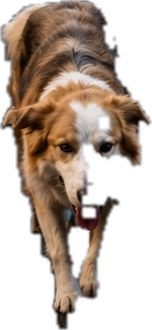
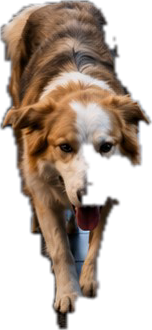
Nach der Pruefung: Loch im Hund zu, Flaeche haelt jede Breite
Ein zweiter Agent hat die Seite gegengelesen. Sieben Befunde, alle behoben.

Der schwerste: ein Loch mitten in der Stirn des Hundes. Der Nachputz, der
kalte dunkle Reste entfernt, hatte auch dunkle Stellen INNERHALB der
Silhouette getroffen — 655 Bildpunkte, darunter ein Rechteck genau zwischen
den Augen, durch das die Tanzflaeche leuchtete. Das Werkzeug fuellt jetzt
alles, was vom Bildrand aus nicht erreichbar ist, meldet Randberuehrung und
bricht ehrlich ab, statt bei fehlender Flaeche den ganzen Hintergrund zum
Hund zu erklaeren (marke === beste war -1 === -1).

Die Tanzflaeche war Bruchteile der Fensterbreite bei fester Kameradistanz:
auf 1440 Pixeln waren von 432 Kacheln sechzig sichtbar, der Rest lief
unsichtbar mit, und die Flaeche zerfiel in vier Farbschollen. Jetzt ein
Muster mit fester Kachelgroesse — zwei Elemente statt 432, gleich auf jedem
Bildschirm. Markup: 64 Elemente statt 495.

Weiter: die Discokugel lag genau auf der Beschriftung darunter (die Kugel
haengt jetzt aus der Mitte, die erfundene Beschriftung ist ganz raus); die
Sonne schien durch die Kacheln und endete in einer geraden Kante (der Boden
ist deckend, die Spiegelung absichtlich gesetzt); der Hund schwebte (Bodenschatten,
ruhigerer Gang); sein Randlicht las sich als Farbversatz (enger gehalten);
das Leuchtwort war auf dem Handy 23 Pixel klein (jetzt 30); der Fokusring
war cyan auf cyan (jetzt weiss); alt-Text verwies auf ein Bild, das fuer
[…]

Changed region(s): [[0.4211, 0.6061, 0.6579, 0.8485], [0.6316, 0.3333, 0.7368, 0.3939]]

diff --git a/index.html b/index.html
@@ -287,39 +287,17 @@ body{
     animation:blinzeln 7s ease-in-out infinite alternate;
 }
 
-/* Lichtkegel von oben. Ein Kegelverlauf, der langsam schwenkt — mehr
-   braucht es nicht, damit ein Raum nach Scheinwerfern aussieht. */
-.strahlen{
-    position:absolute;
-    left:50%; top:-4%;
-    width:min(150vw,1500px);
-    height:74%;
-    transform:translateX(-50%);
-    transform-origin:50% 0;
-    pointer-events:none;
-    opacity:.62;
-    filter:blur(14px);
-    background:conic-gradient(from 208deg at 50% 0%,
-        transparent 0 7deg,
-        rgba(255,46,139,.30) 7deg 11deg,
-        transparent 11deg 17deg,
-        rgba(34,228,255,.26) 17deg 21deg,
-        transparent 21deg 29deg,
-        rgba(255,194,74,.22) 29deg 32deg,
-        transparent 32deg 39deg,
-        rgba(168,92,255,.26) 39deg 43deg,
-        transparent 43deg 120deg);
-    animation:schwenken 11s ease-in-out infinite alternate;
-}
-
 /* Die Discokugel. Facetten aus einem sich drehenden Kegelverlauf,
    Rundung aus einem Radialverlauf, Aufhaengung aus einer Linie. */
 .kugel{
     position:absolute;
     /* Haengt unter der Menueleiste, nicht dahinter — sonst ist die Kugel
-       genau dort angeschnitten, wo man auf dem Abschnitt landet. */
-    top:44px; left:50%;
-    width:clamp(46px,7.5vw,78px);
+       genau dort angeschnitten, wo man auf dem Abschnitt landet. Und sie
+       haengt AUS DER MITTE: vorher standen Kugel, Schild, Sonne, Hund und
+       Fluchtpunkt alle auf derselben Achse, und die Kugel lag mitten auf
+       der Schrift darunter. */
+    top:44px; left:24%;
+    width:clamp(52px,8vw,86px);
     transform:translateX(-50%);
     pointer-events:none;
 }
@@ -339,7 +317,7 @@ body{
         repeating-conic-gradient(from 0deg, rgba(255,255,255,.26) 0 5deg, rgba(120,160,220,.06) 5deg 10deg),
         repeating-linear-gradient(0deg, rgba(0,0,0,.34) 0 4px, transparent 4px 9px),
         radial-gradient(circle at 32% 26%, #F2FAFF 0%, #93A8D8 34%, #3A4270 66%, #12162E 100%);
-    box-shadow:0 0 30px rgba(180,220,255,.4), 0 0 90px rgba(168,92,255,.3);
+    box-shadow:0 0 34px rgba(190,225,255,.5), 0 0 110px rgba(168,92,255,.42), 0 0 200px rgba(34,228,255,.2);
     animation:drehen 14s linear infinite;
 }
 
@@ -367,11 +345,18 @@ body{
 }
 
 /* ---------- Die Tanzflaeche ----------
-   Eine echte perspektivische Ebene: das Kachelraster liegt flach und wird
-   gekippt. Deshalb laufen die Fugen richtig auf den Fluchtpunkt zu und die
-   Kacheln werden nach hinten kleiner. Jede Kachel pulst fuer sich; die
-   Verteilung kommt aus elf Gruppen, die sich mit den zwoelf Spalten nicht
-   decken — sonst stuenden die Farben in Streifen statt im Muster. */
+   Eine echte perspektivische Ebene: das Muster liegt flach und wird gekippt.
+
+   Es sind KEINE Elemente mehr, sondern zwei Hintergrundebenen. Vorher lagen
+   hier 432 einzelne Kacheln — bei 1440 Pixeln Fensterbreite waren davon
+   sechzig sichtbar, der Rest lief unsichtbar mit. Schlimmer: die Kacheln
+   waren Bruchteile der Fensterbreite, die Kameradistanz aber fest. Auf einem
+   breiten Bildschirm wurden daraus vier Farbschollen statt einer Flaeche.
+
+   Als Muster ist die Kachel 76 Pixel gross — auf jedem Bildschirm gleich,
+   und sie wiederholt sich von allein so weit, wie die Ebene reicht. Zwei
+   Ebenen mit verschobener Farbfolge blenden gegeneinander: so wechselt die
+   Flaeche die Farbe, wie sie das gehoert. */
 .flaeche{
     position:absolute;
     left:0; right:0;
@@ -381,39 +366,50 @@ body{
     pointer-events:none;
     perspective:340px;
     perspective-origin:50% 0%;
+    background:#0A0518;
     -webkit-mask-image:linear-gradient(to bottom, transparent 0, #000 15%);
     mask-image:linear-gradient(to bottom, transparent 0, #000 15%);
+}
+/* Das Licht der Sonne, das auf dem Boden liegt. Absichtlich gesetzt: vorher
+   schien die Sonne durch die halbdurchsichtigen Kacheln durch und endete in
+   einer geraden Kante — das sah nach Fehler aus, nicht nach Spiegelung. */
+.flaeche::after{
+    content:"";
+    position:absolute;
+    inset:0;
+    background:linear-gradient(to bottom, rgba(255,90,170,.26) 0%, rgba(255,90,170,.07) 24%, transparent 52%);
 }
 .kacheln{
     position:absolute;
     left:-32%; right:-32%;
     top:0;
+    height:340%;
     transform-origin:50% 0%;
     transform:rotateX(72deg);
-    display:grid;
-    grid-template-columns:repeat(24,1fr);
-    gap:2px;
 }
-/* aspect-ratio statt fester Zeilenhoehe: so bleiben die Kacheln quadratisch,
-   egal wie breit das Fenster ist. Mit fester Hoehe wurden daraus auf dem
-   Bildschirm Farbfelder statt einer Flaeche. */
-.kacheln i{
-    aspect-ratio:1;
-    background:var(--k);
-    opacity:.16;
-    animation:leuchten 2.6s ease-in-out infinite;
+.kacheln span{
+    position:absolute;
+    inset:0;
+    background-image:
+        repeating-linear-gradient(90deg, rgba(0,0,0,.66) 0 3px, transparent 3px 76px),
+        repeating-linear-gradient(0deg,  rgba(0,0,0,.66) 0 3px, transparent 3px 76px),
+        conic-gradient(from 0deg at 50% 50%,
+            var(--magenta) 0 25%, var(--cyan) 25% 50%,
+            var(--gold) 50% 75%, var(--flieder) 75% 100%);
+    background-size:76px 76px, 76px 76px, 152px 152px;
+    opacity:.92;
 }
-.kacheln i:nth-child(11n)   { --k:var(--magenta); animation-delay:0s;    }
-.kacheln i:nth-child(11n+1) { --k:var(--cyan);    animation-delay:-.9s;  }
-.kacheln i:nth-child(11n+2) { --k:var(--gold);    animation-delay:-1.7s; }
-.kacheln i:nth-child(11n+3) { --k:var(--flieder); animation-delay:-.4s;  }
-.kacheln i:nth-child(11n+4) { --k:var(--magenta); animation-delay:-2.2s; }
-.kacheln i:nth-child(11n+5) { --k:var(--cyan);    animation-delay:-1.3s; }
-.kacheln i:nth-child(11n+6) { --k:var(--gruen);   animation-delay:-.6s;  }
-.kacheln i:nth-child(11n+7) { --k:var(--gold);    animation-delay:-2s;   }
-.kacheln i:nth-child(11n+8) { --k:var(--flieder); animation-delay:-1.1s; }
-.kacheln i:nth-child(11n+9) { --k:var(--magenta); animation-delay:-.2s;  }
-.kacheln i:nth-child(11n+10){ --k:var(--cyan);    animation-delay:-2.5s; }
+.kacheln .b{
+    background-image:
+        repeating-linear-gradient(90deg, rgba(0,0,0,.66) 0 3px, transparent 3px 76px),
+        repeating-linear-gradient(0deg,  rgba(0,0,0,.66) 0 3px, transparent 3px 76px),
+        conic-gradient(from 0deg at 50% 50%,
+            var(--cyan) 0 25%, var(--gruen) 25% 50%,
+            var(--flieder) 50% 75%, var(--gold) 75% 100%);
+    background-position:0 0, 0 0, 76px 76px;
+    opacity:0;
+    animation:wechsel 4.4s ease-in-out infinite;
+}
 
 /* ---------- Der Hund ----------
    Freigestellt aus demselben Foto, das oben im Hero steht — er laeuft also
@@ -429,22 +425,37 @@ body{
     height:min(38svh,296px);
     width:auto;
     transform:translateX(-50%);
-    -webkit-mask-image:linear-gradient(to top, transparent 0, #000 20%);
-    mask-image:linear-gradient(to top, transparent 0, #000 20%);
+    -webkit-mask-image:linear-gradient(to top, transparent 0, #000 12%);
+    mask-image:linear-gradient(to top, transparent 0, #000 12%);
     /* Eng gehaltene Schlagschatten: so lesen sie als Randlicht von links
        und rechts. Weit und weich ueberlagern sie sich hinter dem Hund zu
        einem hellen Kasten — das sah aus wie ein Ausschnittfehler. */
+    /* Eng gehalten, sonst liest es sich als Farbversatz wie bei einem
+       schlecht registrierten Druck statt als Randlicht. */
     filter:
-        saturate(1.22) contrast(1.08)
-        drop-shadow(-5px 0 3px rgba(255,46,139,.8))
-        drop-shadow(5px 0 3px rgba(34,228,255,.8))
-        drop-shadow(0 12px 18px rgba(0,0,0,.55));
+        saturate(1.18) contrast(1.06)
+        drop-shadow(0 10px 14px rgba(0,0,0,.62))
+        drop-shadow(-3px 0 2px rgba(255,46,139,.6))
+        drop-shadow(3px 0 2px rgba(34,228,255,.6));
     animation:tappen 3.6s ease-in-out infinite;
 }
 /* Der Lichtnebel an den Pfoten. Er hat eine Aufgabe: der Hund laeuft unten
    weich aus, weil die Freistellung an den Laeufen ausfranst — dieser Schein
    macht daraus Licht statt eines Schnitts. Deshalb sitzt er genau auf
    Pfotenhoehe und nicht am unteren Rand. */
+.hundschatten{
+    position:absolute;
+    left:50%;
+    bottom:5.5%;
+    z-index:4;
+    width:min(28vw,196px);
+    height:min(4.4vh,30px);
+    transform:translateX(-50%);
+    pointer-events:none;
+    border-radius:50%;
+    background:radial-gradient(ellipse at center, rgba(0,0,0,.72), rgba(0,0,0,.3) 52%, transparent 74%);
+    filter:blur(7px);
+}
 .hundlicht{
     position:absolute;
     left:50%;
@@ -456,8 +467,8 @@ body{
     pointer-events:none;
     border-radius:50%;
     background:radial-gradient(ellipse at center,
-        rgba(255,255,255,.78) 0%, rgba(180,240,255,.55) 22%,
-        rgba(34,228,255,.34) 44%, rgba(255,46,139,.20) 66%, transparent 78%);
+        rgba(255,255,255,.55) 0%, rgba(180,240,255,.42) 24%,
+        rgba(34,228,255,.30) 46%, rgba(255,46,139,.18) 66%, transparent 78%);
     filter:blur(16px);
     animation:atmen 3.6s ease-in-out infinite;
 }
@@ -475,15 +486,6 @@ body{
     align-items:center;
     gap:clamp(14px,2.6vh,24px);
     text-align:center;
-}
-
-.augenbraue{
-    font-size:10px;
-    font-weight:600;
-    letter-spacing:.34em;
-    text-transform:uppercase;
-    color:var(--gold);
-    text-shadow:0 0 16px rgba(255,194,74,.85);
 }
 
 /* Das Leuchtschild. Der einzige Weg, den diese Seite anbietet — also
@@ -509,12 +511,12 @@ body{
     box-shadow:0 0 38px rgba(34,228,255,.55), inset 0 0 28px rgba(34,228,255,.24);
     transform:translateY(-2px);
 }
-.schild:focus-visible{ outline:2px solid var(--cyan); outline-offset:5px; }
+.schild:focus-visible{ outline:2px solid #fff; outline-offset:5px; }
 
 .schild-wort{
     display:block;
     font-family:var(--anzeige);
-    font-size:clamp(23px,5.8vw,54px);
+    font-size:clamp(30px,6.6vw,54px);
     line-height:1.06;
     letter-spacing:.045em;
     text-transform:uppercase;
@@ -531,9 +533,11 @@ body{
 }
 .schild-zeile{
     display:block;
-    margin-top:12px;
+    max-width:42ch;
+    margin:12px auto 0;
     font-size:13px;
     letter-spacing:.06em;
+    text-wrap:balance;
     color:var(--leise);
 }
 
@@ -599,10 +603,10 @@ body{
 }
 
 /* ---------- Bewegung ---------- */
-@keyframes leuchten{ 0%,100%{ opacity:.12; } 50%{ opacity:.92; } }
+@keyframes wechsel{ 0%,44%{ opacity:0; } 50%,94%{ opacity:1; } 100%{ opacity:0; } }
 @keyframes drehen{   from{ transform:rotate(0deg); } to{ transform:rotate(360deg); } }
 @keyframes schwenken{ from{ transform:translateX(-50%) rotate(-7deg); } to{ transform:translateX(-50%) rotate(7deg); } }
-@keyframes tappen{ 0%,100%{ transform:translateX(-50%) translateY(0) rotate(0deg); } 50%{ transform:translateX(-50%) translateY(-9px) rotate(-1.1deg); } }
+@keyframes tappen{ 0%,100%{ transform:translateX(-50%) translateY(0); } 50%{ transform:translateX(-50%) translateY(-5px); } }
 @keyframes atmen{  0%,100%{ opacity:.75; transform:translateX(-50%) scale(1); } 50%{ opacity:1; transform:translateX(-50%) scale(1.06); } }
 @keyframes blinzeln{
     from{ opacity:.55; }
@@ -628,9 +632,9 @@ body{
 /* Wer Bewegung abgestellt hat, bekommt dasselbe Bild im Stand: die Röhre
    brennt, das Gitter steht, die Sterne stehen. */
 @media (prefers-reduced-motion:reduce){
-    .kacheln i, .sterne, .kugel::after, .strahlen,
+    .kacheln .b, .sterne, .kugel::after,
     .hund, .hundlicht, .schild-wort, .hinweis svg{ animation:none !important; }
-    .kacheln i{ opacity:.5; }
+    .kacheln .b{ opacity:.4; }
     .schild{ transition:none; }
 }
 
@@ -663,7 +667,6 @@ body{
 <section class="club" id="weiter">
 
   <div class="sterne" aria-hidden="true"></div>
-  <div class="strahlen" aria-hidden="true"></div>
   <div class="kugel" aria-hidden="true"></div>
 
   <svg class="sonne" viewBox="0 0 200 200" aria-hidden="true" focusable="false" xmlns="http://www.w3.org/2000/svg">
@@ -690,20 +693,21 @@ body{
 
   <div class="horizont" aria-hidden="true"></div>
 
-  <!-- Die Tanzflaeche. 432 Kacheln, jede pulst fuer sich. -->
+  <!-- Die Tanzflaeche. Zwei Musterebenen, die gegeneinander blenden. -->
   <div class="flaeche" aria-hidden="true">
-    <div class="kacheln"><i></i><i></i><i></i><i></i><i></i><i></i><i></i><i></i><i></i><i></i><i></i><i></i><i></i><i></i><i></i><i></i><i></i><i></i><i></i><i></i><i></i><i></i><i></i><i></i><i></i><i></i><i></i><i></i><i></i><i></i><i></i><i></i><i></i><i></i><i></i><i></i><i></i><i></i><i></i><i></i><i></i><i></i><i></i><i></i><i></i><i></i><i></i><i></i><i></i><i></i><i></i><i></i><i></i><i></i><i></i><i></i><i></i><i></i><i></i><i></i><i></i><i></i><i></i><i></i><i></i><i></i><i></i><i></i><i></i><i></i><i></i><i></i><i></i><i></i><i></i><i></i><i></i><i></i><i></i><i></i><i></i><i></i><i></i><i></i><i></i><i></i><i></i><i></i><i></i><i></i><i></i><i></i><i></i><i></i><i></i><i></i><i></i><i></i><i></i><i></i><i></i><i></i><i></i><i></i><i></i><i></i><i></i><i></i><i></i><i></i><i></i><i></i><i></i><i></i><i></i><i></i><i></i><i></i><i></i><i></i><i></i><i></i><i></i><i></i><i></i><i></i><i></i><i></i><i></i><i></i><i></i><i></i><i></i><i></i><i></i><i></i><i></i><i></i><i></i><i></i><i></i><i></i><i></i><i></i><i></i><i></i><i></i><i></i><i></i><i></i><i></i><i></i><i></i><i></i><i></i><i></i><i></i><i></i><i></i><i></i><i></i><i></i><i></i><i></i><i></i><i></i><i></i><i></i><i></i><i></i><i></i><i></i><i></i><i></i><i></i><i></i><i></i><i></i><i></i><i></i><i></i><i></i><i></i><i></i><i></i><i></i><i></i><i></i><i></i><i></i><i></i><i></i><i></i><i></i><i></i><i></i><i></i><i></i><i></i><i></i><i></i><i></i><i></i><i></i><i></i><i></i><i></i><i></i><i></i><i></i><i></i><i></i><i></i><i></i><i></i><i></i><i></i><i></i><i></i><i></i><i></i><i></i><i></i><i></i><i></i><i></i><i></i><i></i><i></i><i></i><i></i><i></i><i></i><i></i><i></i><i></i><i></i><i></i><i></i><i></i><i></i><i></i><i></i><i></i><i></i><i></i><i></i><i></i><i></i><i></i><i></i><i></i><i></i><i></i><i></i><i></i><i></i><i></i><i></i><i></i><i></i><i></i><i></i><i></i><i></i><i></i><i></i><i></i><i></i><i></i><i></i><i></i><i></i><i></i><i></i><i></i><i></i><i></i><i></i><i></i><i></i><i></i><i></i><i></i><i></i><i></i><i></i><i></i><i></i><i></i><i></i><i></i><i></i><i></i><i></i><i></i><i></i><i></i><i></i><i></i><i></i><i></i><i></i><i></i><i></i><i></i><i></i><i></i><i></i><i></i><i></i><i></i><i></i><i></i><i></i><i></i><i></i><i></i><i></i><i></i><i></i><i></i><i></i><i></i><i></i><i></i><i></i><i></i><i></i><i></i><i></i><i></i><i></i><i></i><i></i><i></i><i></i><i></i><i></i><i></i><i></i><i></i><i></i><i></i><i></i><i></i><i></i><i></i><i></i><i></i><i></i><i></i><i></i><i></i><i></i><i></i><i></i><i></i><i></i><i></i><i></i><i></i><i></i><i></i><i></i><i></i><i></i><i></i><i></i><i></i><i></i><i></i><i></i><i></i><i></i><i></i><i></i><i></i><i></i><i></i><i></i><i></i><i></i><i></i><i></i><i></i><i></i><i></i><i></i><i></i><i></i><i></i><i></i><i></i><i></i><i></i><i></i><i></i><i></i><i></i><i></i><i></i><i></i><i></i><i></i><i></i><i></i><i></i><i></i><i></i><i></i><i></i><i></i><i></i><i></i><i></i><i></i><i></i><i></i><i></i><i></i><i></i><i></i><i></i><i></i><i></i><i></i><i></i><i></i><i></i><i></i><i></i></div>
+    <div class="kacheln"><span class="a"></span><span class="b"></span></div>
   </div>
 
   <div class="hundlicht" aria-hidden="true"></div>
-  <img class="hund" src="bilder/hund.png" width="152" height="330" decoding="async"
-       alt="Derselbe Hund wie im Bild oben, freigestellt und auf einer beleuchteten Tanzfläche.">
+  <div class="hundschatten" aria-hidden="true"></div>
+  <!-- Schmueckend: das Bild darueber ist ein CSS-Hintergrund und hat gar
+       keine Textalternative, ein Verweis darauf ginge also ins Leere. -->
+  <img class="hund" src="bilder/hund.png" width="152" height="330" decoding="async" alt="">
 
   <div class="club-inhalt">
-    <p class="augenbraue">Auf dieser Seite</p>
     <a class="schild" href="/rauchfrei.html" data-rauchfrei>
       <span class="schild-wort">Rauchfrei</span>
-      <span class="schild-zeile">Der Zähler seit dem ersten Tag. Mit Anmeldung.</span>
+      <span class="schild-zeile">Der Zähler seit dem ersten&nbsp;Tag. Mit&nbsp;Anmeldung.</span>
     </a>
   </div>
 

diff --git a/README.md b/README.md
@@ -31,15 +31,15 @@ Zwei Bildschirme. Oben das Foto, unten der Club.
 `<img>`, keine Leinwand, kein Skript. Das war zwischenzeitlich anders (eine
 Kamerafahrt per WebGL) und ist bewusst zurückgebaut: das Foto steht still.
 
-**Darunter der Club.** Ein Horizont mit geschnittener Sonne, eine Discokugel,
-Lichtkegel, eine beleuchtete Tanzfläche in echter Perspektive — und der Hund
-aus dem Hero-Foto, freigestellt, mitten drauf. Der einzige Weg, den die Seite
-anbietet, steht als Leuchtschild darüber: Rauchfrei.
+**Darunter der Club.** Ein Horizont mit geschnittener Sonne, eine Discokugel
+aus der Mitte, eine beleuchtete Tanzfläche in echter Perspektive — und der
+Hund aus dem Hero-Foto, freigestellt, mitten drauf. Der einzige Weg, den die
+Seite anbietet, steht als Leuchtschild darüber: Rauchfrei.
 
-Alles davon ist gerechnet — Kugel, Strahlen, Sonne und 432 Kacheln sind CSS
-und ein kleines SVG. Das einzige zusätzliche Bild ist der freigestellte Hund
-(107 KB). Skript hat die Seite genau eines, und das hängt nur den
-Frisch-Parameter an die Rauchfrei-Verweise.
+Alles davon ist gerechnet — Kugel, Sonne und Tanzfläche sind CSS und ein
+kleines SVG. Das einzige zusätzliche Bild ist der freigestellte Hund (107 KB).
+Skript hat die Seite genau eines, und das hängt nur den Frisch-Parameter an
+die Rauchfrei-Verweise. Das ganze Markup sind **64 Elemente**.
 
 ### Der freigestellte Hund
 
@@ -58,16 +58,21 @@ An den Läufen franst es trotzdem aus — deshalb läuft der Hund auf der Seite
 unten weich aus und steht in einem Lichtnebel. Das ist keine Notlösung,
 sondern der Grund, warum der Lichtnebel genau auf Pfotenhöhe sitzt.
 
-### Drei Fallen in der Tanzfläche
+### Die Tanzfläche ist ein Muster, keine Kacheln
+
+Zwei Hintergrundebenen auf einer gekippten Fläche, mehr nicht. Die Kachel ist
+**76 Pixel groß — auf jedem Bildschirm gleich**, und das Muster wiederholt sich
+von allein so weit, wie die Ebene reicht. Zwei Ebenen mit verschobener
+Farbfolge blenden hart gegeneinander, dadurch wechselt die Fläche die Farbe.
+
+Das war zweimal falsch, bevor es stimmte — beide Fehler lohnt es zu kennen:
 
 | Falle | Was passiert | Richtig |
 |---|---|---|
-| Feste Zeilenhöhe (`grid-auto-rows:1fr`) | Aus Kacheln werden Farbfelder | `aspect-ratio:1` auf der Kachel |
-| Perspektive zu stark (165px) | Die vorderen Kacheln werden riesig | 340px, `rotateX(72deg)` |
-| Weiche farbige Schlagschatten am Hund | Überlagern sich hinter ihm zu einem hellen Kasten | Eng halten (5px Versatz, 3px Unschärfe) |
-
-Die Farbverteilung kommt aus elf Gruppen (`:nth-child(11n+k)`), die sich mit
-den 24 Spalten nicht decken — sonst stünden die Farben in Streifen.
+| Kacheln als Bruchteil der Breite (`repeat(24,1fr)`) | Kachelgröße wächst mit dem Fenster, die Kameradistanz nicht. Auf 1440 px waren von 432 Kacheln 60 sichtbar, der Rest lief unsichtbar mit; die Fläche zerfiel in vier Farbschollen | Muster mit fester Kachelgröße in Pixeln |
+| Perspektive zu stark (165 px) | Die vorderen Kacheln werden bildschirmgroß | 340 px, `rotateX(72deg)` |
+| Zwei halbdurchsichtige Farbebenen mit langer Blende | Mischen sich in der Mitte zu Pastell | Deckende Ebenen, harter Wechsel (`0,44% → 50,94%`) |
+| Weiche farbige Schlagschatten am Hund | Überlagern sich hinter ihm zu einem hellen Kasten, der wie ein Freistellungsfehler aussieht | Eng halten: 3 px Versatz, 2 px Unschärfe |
 
 ## Schriften
 

diff --git a/CLAUDE.md b/CLAUDE.md
@@ -91,6 +91,13 @@ ist und nicht Zufall:
   diesem Foto freigestellt — es ist derselbe Hund, dieselbe Gangart, nur nicht
   mehr im Rechenzentrum. Neu erzeugen mit `werkzeug/hund-freistellen.mjs`
   (Weg und Fallen stehen im README).
+
+  **Nach jedem Freistellen die Innenlöcher prüfen.** Der Nachputz, der kalte
+  dunkle Reste entfernt, trifft auch dunkle Stellen *innerhalb* der Silhouette
+  — einmal war dadurch ein Loch mitten in der Stirn, durch das die Tanzfläche
+  leuchtete. Das Skript füllt jetzt alles, was vom Bildrand aus nicht
+  erreichbar ist, und meldet, wie viele Punkte das waren. Es meldet außerdem
+  Randberührung: steht dort oben ein Wert, ist der Hund abgeschnitten.
 - **Es gibt keine Fremdfotos mehr.** Die vier Revier-Bilder von Wikimedia
   Commons sind raus, samt Lizenznachweisen — der Nutzer mochte sie nicht. Wer
   wieder fremde Bilder einbaut, holt sich die Nennungspflichten zurück; der
@@ -100,10 +107,16 @@ ist und nicht Zufall:
 
 **Was in dieser Fläche leicht kaputtgeht:**
 
-- Die Tanzfläche ist eine echte perspektivische Ebene. Ihre Kacheln brauchen
-  `aspect-ratio:1` — mit fester Zeilenhöhe werden daraus Farbfelder. Und die
-  Perspektive darf nicht zu stark sein (340px, nicht 165px), sonst bläst sie
-  die vorderen Kacheln auf Bildschirmgröße auf. Beides ist genau so passiert.
+- Die Tanzfläche ist eine echte perspektivische Ebene, und ihr Muster hat eine
+  **feste Kachelgröße in Pixeln**. Macht man die Kacheln zu Bruchteilen der
+  Fensterbreite, wächst die Kachel mit dem Fenster, die Kameradistanz aber
+  nicht — auf einem breiten Bildschirm zerfällt die Fläche dann in vier
+  Farbschollen. Genau so passiert, mit 432 einzelnen Elementen, von denen
+  sechzig sichtbar waren. Die Perspektive darf ebenso wenig zu stark sein
+  (340px, nicht 165px).
+- **Zwei Farbebenen müssen deckend sein und hart wechseln.** Halbdurchsichtig
+  und langsam übergeblendet mischen sie sich in der Mitte zu Pastell — und
+  Pastell ist das Gegenteil dessen, was hier bestellt war.
 - Die farbigen Schlagschatten am Hund müssen **eng** bleiben. Weit und weich
   überlagern sich Magenta und Cyan hinter ihm zu einem hellen Kasten, der wie
   ein Freistellungsfehler aussieht.
